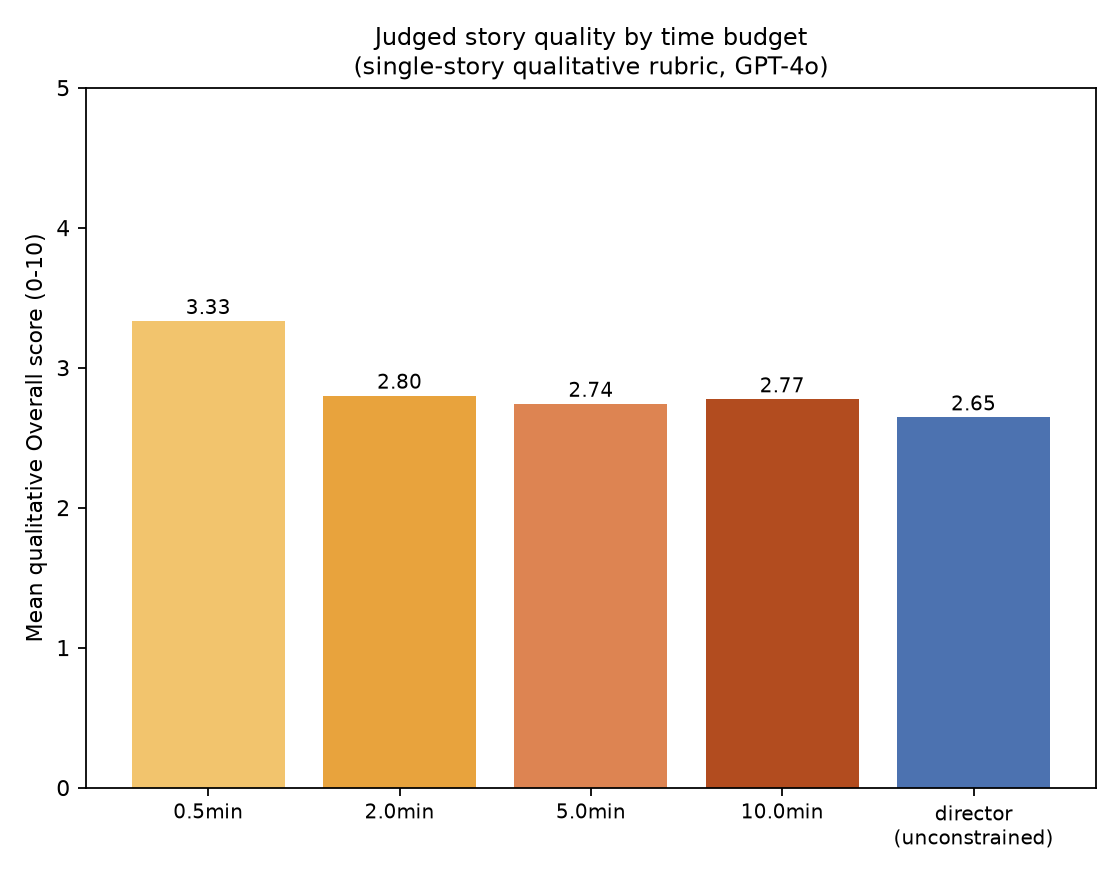
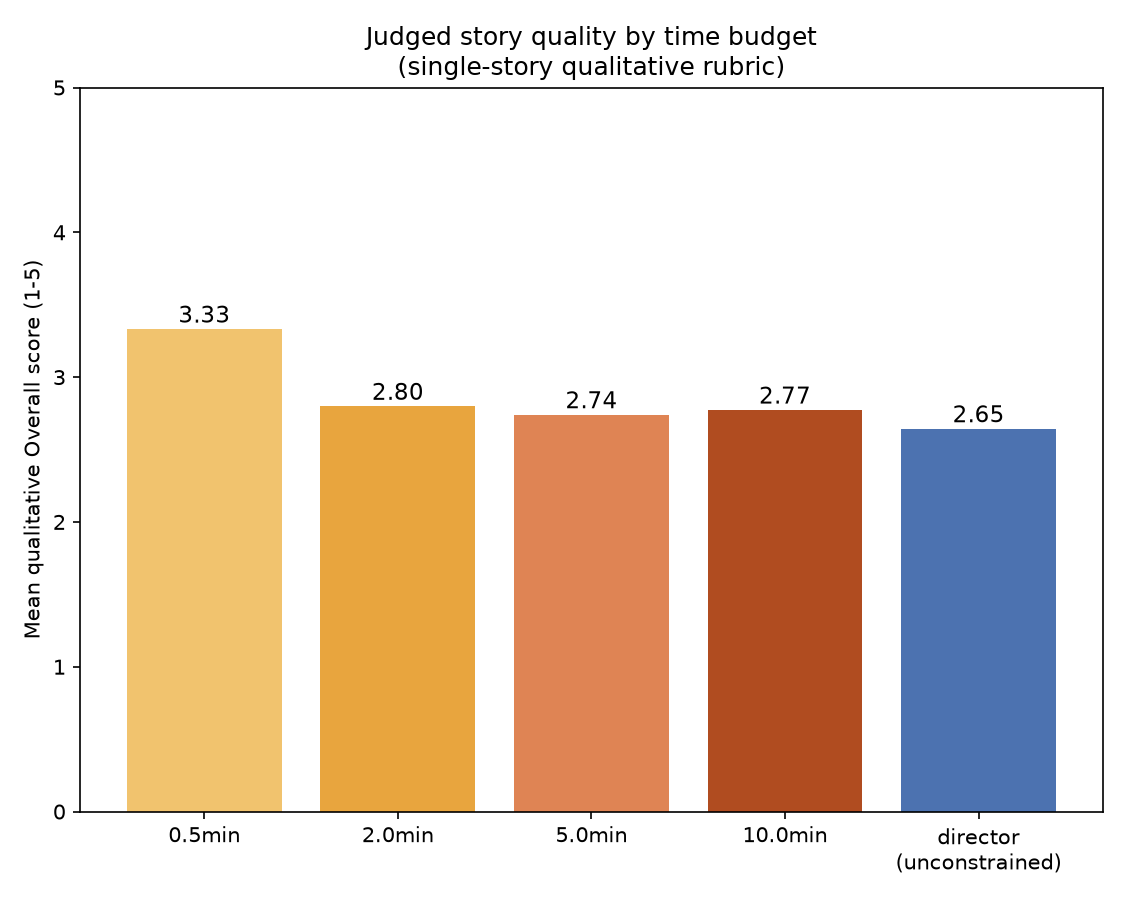
Replace five regenerated plots; update text, Rocket table and TODOs to match
Claude-Session: https://claude.ai/code/session_01M93oRevghLswnboshza7Lk

diff --git a/latex/tex/results.tex b/latex/tex/results.tex
@@ -45,13 +45,13 @@ Looking more closely at interruption handling in Story 1, the derailment-attempt
 \begin{figure}[htbp]
 \centering
 \includegraphics[width=0.62\linewidth]{plots/16_story1_derailment_paired.png}
-\caption{Resistance to derailment (Q6), Story 1, one line per participant ($n$=11 paired completers). Baseline points cluster at the bottom; director points cluster at the top; every individual participant, not just the group average, rated director higher.}
+\caption{Resistance to derailment (Q6), Story 1, one line per participant ($n$=11 paired completers). Baseline points cluster at the bottom; director points cluster at the top; all but one participant rated director higher, and the remaining one gave both conditions the maximum score.}
 \label{fig:story1-paired}
 \end{figure}
 
-\todo{Regenerate Figure~\ref{fig:story1-paired} (\texttt{16\_story1\_derailment\_paired}): its means (4.30 and 1.20) imply 10 participants, but the caption and text say 11 (table means 4.36 and 1.55 for the paired 11). Check that all 11 paired participants are plotted.}
+\todo{Plot regenerated: means now 4.36 and 1.55 for $n$=11, matching the paired data. Double-check. Note that one participant now rates both conditions 5, so the text was changed from ``11 of 11'' to ``10 of 11''.}
 
-Figure~\ref{fig:story1-paired} makes the individual-level pattern behind Table~\ref{tab:story1} visible: 11 of the 11 paired participants personally rated director above baseline on resisting derailment.
+Figure~\ref{fig:story1-paired} makes the individual-level pattern behind Table~\ref{tab:story1} visible: 10 of the 11 paired participants personally rated director above baseline on resisting derailment, and the remaining one gave both conditions the maximum score of 5.
 
 
 \textbf{What handling an interruption looks like.} The free-text comments show what lies behind these ratings. Reading the free-text breakdowns, a clear pattern emerges on each side. Under \textbf{baseline}, about 8 in 10 comments describe the story stalling outright the moment the user goes off-topic -- not recovering, just stopping:
@@ -188,13 +188,13 @@ The unconstrained director round almost never reaches an ending (86\% ``cut shor
 \begin{figure}[htbp]
 \centering
 \includegraphics[width=0.95\linewidth]{plots/12_beat_compression_time_constrained.png}
-\caption{Which Cinderella beats were compressed or skipped under the 3-minute limit, across all 16 time-constrained transcripts.}
+\caption{Which Cinderella beats were compressed or skipped under the 3-minute limit, across all 14 time-constrained transcripts.}
 \label{fig:compression}
 \end{figure}
 
-\todo{Regenerate Figure~\ref{fig:compression} (\texttt{12\_beat\_compression\_time\_constrained}): the title says ``5-minute time limit'', but the user study used 3 minutes for Cinderella.}
+\todo{Plot regenerated: it now shows 14 transcripts (previously 16) and separates ``skipped ahead mid-story'' from ``folded into closing turn''; the caption and text were updated to 14. Double-check why it is 14 now. The title still says ``5-minute time limit'', but the study used 3 minutes for Cinderella --- fix the title.}
 
-The pattern tracks story position closely. The opening beat is fully developed in all 16 transcripts. From there, compression builds beat by beat; from the fourth beat onward, most transcripts show compressed or skipped treatment, and the final two beats are never once given a dedicated turn in any of the 14 transcripts that reach them. They are folded into a single closing message instead. This makes sense since depending on how long the user takes to respond or how much he derails, the pacing is adjusted accordingly. So if the user is constantly trying to derail, the story will get more and more compressed towards the end. The final turn always compresses the medium and high priority beats left.
+The pattern tracks story position closely. The opening beat is fully developed in all 14 transcripts. From there, compression builds beat by beat; from the fourth beat onward, most transcripts show compressed or skipped treatment, and the final two beats are never once given a dedicated turn in any of the 14 transcripts. They are folded into a single closing message instead. This makes sense since depending on how long the user takes to respond or how much he derails, the pacing is adjusted accordingly. So if the user is constantly trying to derail, the story will get more and more compressed towards the end. The final turn always compresses the medium and high priority beats left.
 
 
 \subsection{Comparing All Three Conditions}
@@ -218,7 +218,7 @@ The ranking is consistent across every measure: baseline lowest, director and ti
 \label{fig:derail-by-story}
 \end{figure}
 
-\todo{Regenerate Figure~\ref{fig:derail-by-story} (\texttt{09\_derailment\_story\_comparison}). Supervisor comment 53: move the ``4.42'' label so that it does not cut into the top line of the figure.}
+\todo{Plot regenerated: labels no longer cut into the top line (comment 53) and the values match Tables~\ref{tab:story1} and~\ref{tab:story2}. Double-check.}
 
 Figure~\ref{fig:derail-by-story} splits the headline derailment result by story: in Story 1, director's advantage over baseline is large (4.42 vs.\ 1.58, \pval{0.002}); in Story 2, director's advantage over time-constrained is small and not significant (4.07 vs.\ 3.75, \pval{0.40}). The interruption-handling benefit of the director comes entirely from replacing baseline, not from removing the time limit.
 
@@ -342,7 +342,7 @@ Figure~\ref{fig:llm-tb-coverage} shows that the budget controls how much of the 
 \label{fig:llm-tb-overall}
 \end{figure}
 
-\todo{Double-check Figure~\ref{fig:llm-tb-overall}: the y-axis label says 0--10 but the axis only goes to 5. Also, the six time-budget dimensions described in Section~\ref{sec:design-judge} are not shown; add per-dimension results if available.}
+\todo{Plot regenerated: the y-axis is now labelled 1--5. Double-check, and note that Section~\ref{sec:design-judge} says the judge scores each dimension out of ten; explain there that this time-budget rubric uses a 1--5 scale, if that is the case. Also, the six time-budget dimensions described in Section~\ref{sec:design-judge} are not shown; add per-dimension results if available.}
 
 The judged quality changes little with the budget (Figure~\ref{fig:llm-tb-overall}). At 2, 5 and 10 minutes the Overall score lies between 2.74 and 2.80, slightly above the unconstrained Director (2.65). The 0.5-minute budget scores highest (3.33), even though its transcripts are only 48 words long on average, so this score should be read with care.
 
@@ -443,7 +443,7 @@ To make the setup concrete, a \emph{scenario} is one run of the Red Riding Hood 
 \label{fig:llm-rocket-metric}
 \end{figure}
 
-\todo{Regenerate Figure~\ref{fig:llm-rocket-metric} (\texttt{08\_rocket\_scores\_by\_metric}). Supervisor comment 71: the ``9.9'' label cuts into the top line of the figure; move it so it does not. Supervisor comment 72: the title mentions the judge (GPT-4o), which the other figures do not; make the titles consistent.}
+\todo{Plot regenerated: the labels fit (comment 71) and the title no longer names the judge (comment 72). The full-suite baseline values changed compared with the old figure; Table~\ref{tab:llm-rocket-metric} was updated to the new figure values, but only to one decimal. Fill in the exact values, and check whether the matched-set column, the derailment-level table and the note about the excluded score are still correct.}
 
 \begin{table}[htbp]
 \centering
@@ -454,19 +454,19 @@ To make the setup concrete, a \emph{scenario} is one run of the Red Riding Hood 
  & \multicolumn{2}{c}{Matched (n=3)} & \multicolumn{2}{c}{Full suite (n=7)} \\
 Dimension & Baseline & Director & Baseline & Director \\
 \midrule
-Plot                   & 5.33 & 9.00  & 5.17 & 8.14 \\
-Development             & 6.33 & 9.00  & 6.17 & 7.71 \\
-Language Use            & 8.33 & 10.00 & 7.83 & 9.43 \\
-Interruption Handling   & 5.67 & 9.00  & 5.17 & 9.00 \\
-Character Fidelity      & 9.00 & 10.00 & 8.83 & 9.86 \\
-Narrative Control       & 4.67 & 9.00  & 4.33 & 8.14 \\
-Anthropomorphism        & 7.67 & 10.00 & 7.33 & 9.29 \\
-Overall                  & 6.67 & 9.00  & 6.33 & 8.57 \\
+Plot                   & 5.33 & 9.00  & 4.9 & 8.14 \\
+Development             & 6.33 & 9.00  & 6.0 & 7.71 \\
+Language Use            & 8.33 & 10.00 & 7.7 & 9.43 \\
+Interruption Handling   & 5.67 & 9.00  & 4.7 & 9.00 \\
+Character Fidelity      & 9.00 & 10.00 & 8.7 & 9.86 \\
+Narrative Control       & 4.67 & 9.00  & 4.1 & 8.14 \\
+Anthropomorphism        & 7.67 & 10.00 & 6.9 & 9.29 \\
+Overall                  & 6.67 & 9.00  & 6.0 & 8.57 \\
 \bottomrule
 \end{tabular}
 \end{table}
 
-Figure~\ref{fig:llm-rocket-metric} and Table~\ref{tab:llm-rocket-metric} show that the pattern from Olaf replicates, and more sharply: director outscores baseline on every single dimension for Rocket, both on the matched set and on the full suite. The Overall gap is 2.33 points on the matched set and 2.24 on the full suite. \todo{Full-suite baseline values were corrected to match Figure~\ref{fig:llm-rocket-metric}: the old table seemed to count the unparseable baseline score as 0 (old value $\times 7 / 6$ = figure value). Double-check against the data, and check whether the unparseable score falls in the matched set.} The pairwise verdicts (Figure~\ref{fig:llm-rocket-wins}) are close to unanimous: across the matched 3 scenarios, director wins outright on 20 of 24 dimension judgments, with the only ties on Character Fidelity and one Anthropomorphism tie; on the full 7-scenario suite director wins outright on nearly every single dimension.
+Figure~\ref{fig:llm-rocket-metric} and Table~\ref{tab:llm-rocket-metric} show that the pattern from Olaf replicates, and more sharply: director outscores baseline on every single dimension for Rocket, both on the matched set and on the full suite. The Overall gap is 2.33 points on the matched set and about 2.6 on the full suite.  The pairwise verdicts (Figure~\ref{fig:llm-rocket-wins}) are close to unanimous: across the matched 3 scenarios, director wins outright on 20 of 24 dimension judgments, with the only ties on Character Fidelity and one Anthropomorphism tie; on the full 7-scenario suite director wins outright on nearly every single dimension.
 
 \begin{figure}[htbp]
 \centering
